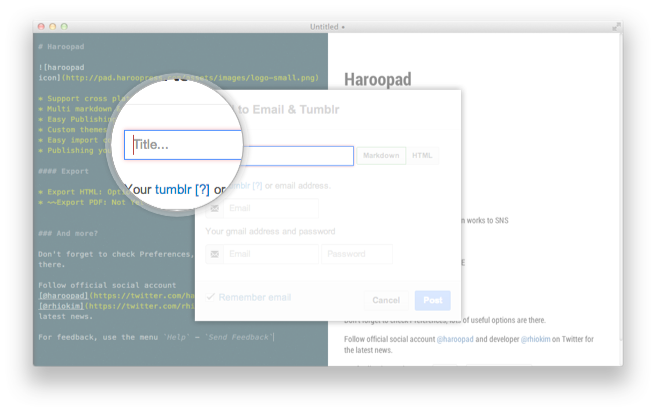
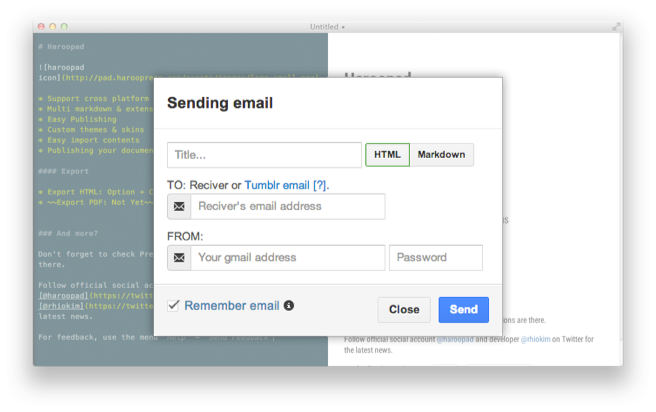
update sending email image & text

Changed region(s): [[0.1524, 0.1748, 0.7927, 0.8447]]

diff --git a/docs/send-beautiful-email/index.md b/docs/send-beautiful-email/index.md
@@ -18,7 +18,7 @@
 
 ![](images/send-email-001.png)
 
-`COMMAND + Shift + T` 단축키는 하루패드에서 가장 자주쓰게 될 단축키이니 익숙해지면 좋다. 혹은 tools 메뉴에 email 기능을 클릭해도 위와 같은 다이얼로그가 나타난다.
+`COMMAND(Ctrl) + Shift + E` 단축키는 하루패드에서 가장 자주 쓰게 될 단축키이니 익숙해지면 좋다. 혹은 `File` 메뉴에 `Sending...` 기능을 클릭해도 위와 같은 다이얼로그가 나타난다.
 
 자세히 살펴보자.
 
@@ -34,13 +34,13 @@
 
 하루패드의 좌측은 에디터 영역 우측은 뷰어 영역이다.  메일을 보낼때 에디터 영역의 내용을 보낼 것인지 우측의 변환된 문서 형태로 보낼 것인지에 대해서 설정하는 것이다.
 
-특별한 경우가 아닌 경우라면 기본은 HTML 이 될 것이다.
+특별한 경우가 아니라면 HTML이 기본값이다.
 
-##### 받는사람 설정
+##### 받는사람(Reciver) 설정
 
 ![](images/send-email-004.png)
 
-이 메일을 받을 사람의 이메일 주소를 입력하면 된다.  다이얼로그 좌측 하단을 보면 `Remember email` 체크박스를 체크하면 받는 사람 메일 주소가 저장되어 나중에 보낼때 손쉽게 선택하여 보낼 수 있다.
+이 메일을 받을 사람의 이메일 주소를 입력하면 된다.  다이얼로그 좌측 하단을 보면 `Remember email` 체크박스를 체크하면 받는 사람 메일 주소가 저장되어 자동완성으로 재 사용할 수 있다.
 
 ##### 보내는 사람 설정
 
@@ -48,9 +48,11 @@
 
 보내는 사람 설정하기에 앞서 유의해야할 사항은 현(v0.5.0) 버젼에서는 **구글 계정을 통해서만 보낼 수 있다.**
 
-그러면 구글 계정과 패스워드를 입력하자. 여기 역시 마찬가지로 `Remeber email` 을 체크하면 구글 이메일 주소도 저장된다. **단, 비밀번호는 저장되지 않고 메일을 보낼때만 사용된다.** 
+그러면 구글 계정과 패스워드를 입력하자.
+
+`Remeber email` 을 체크하면 보낸 사람의  이메일 주소도 저장된다. **단, 비밀번호는 저장되지 않는다.**
 
 ##### 메일 보내기
 ![](images/send-email-006.png)
 
-마지막으로 우측 하단에 Post 버튼을 클릭하면 메일이 전송된다.
+마지막으로 우측 하단에 `Send` 버튼을 클릭하면 메일이 전송된다.
